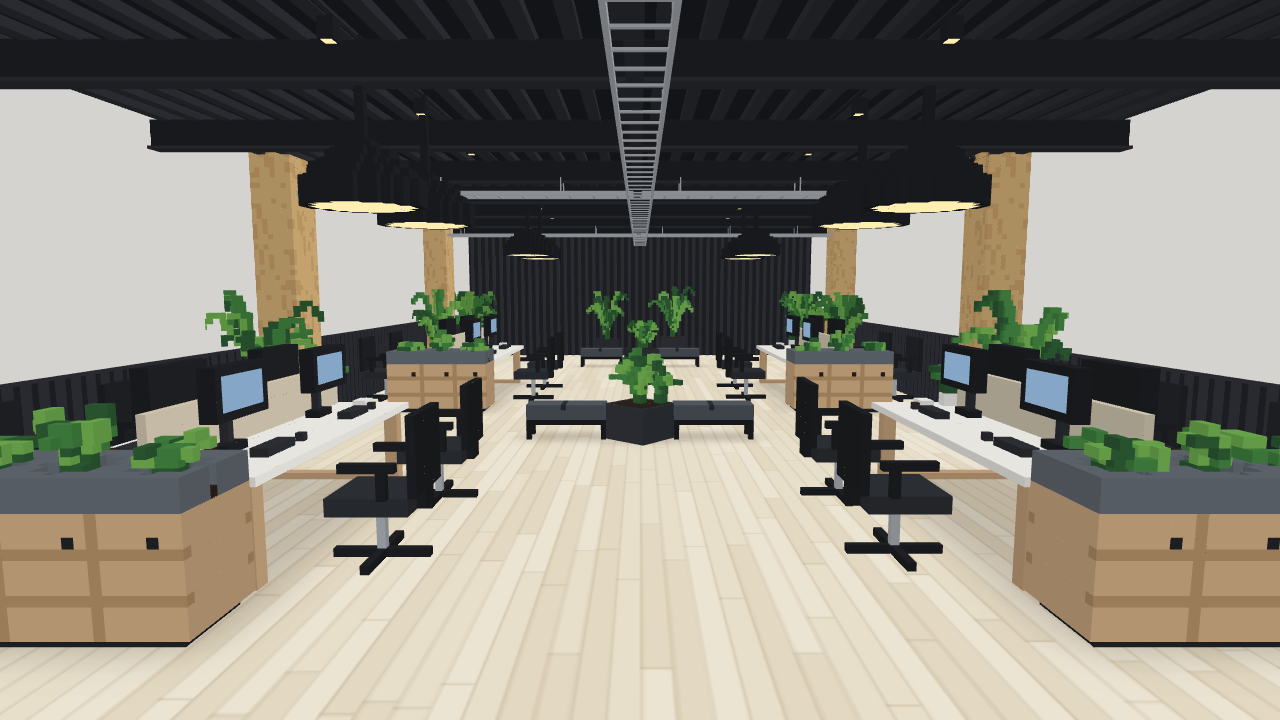
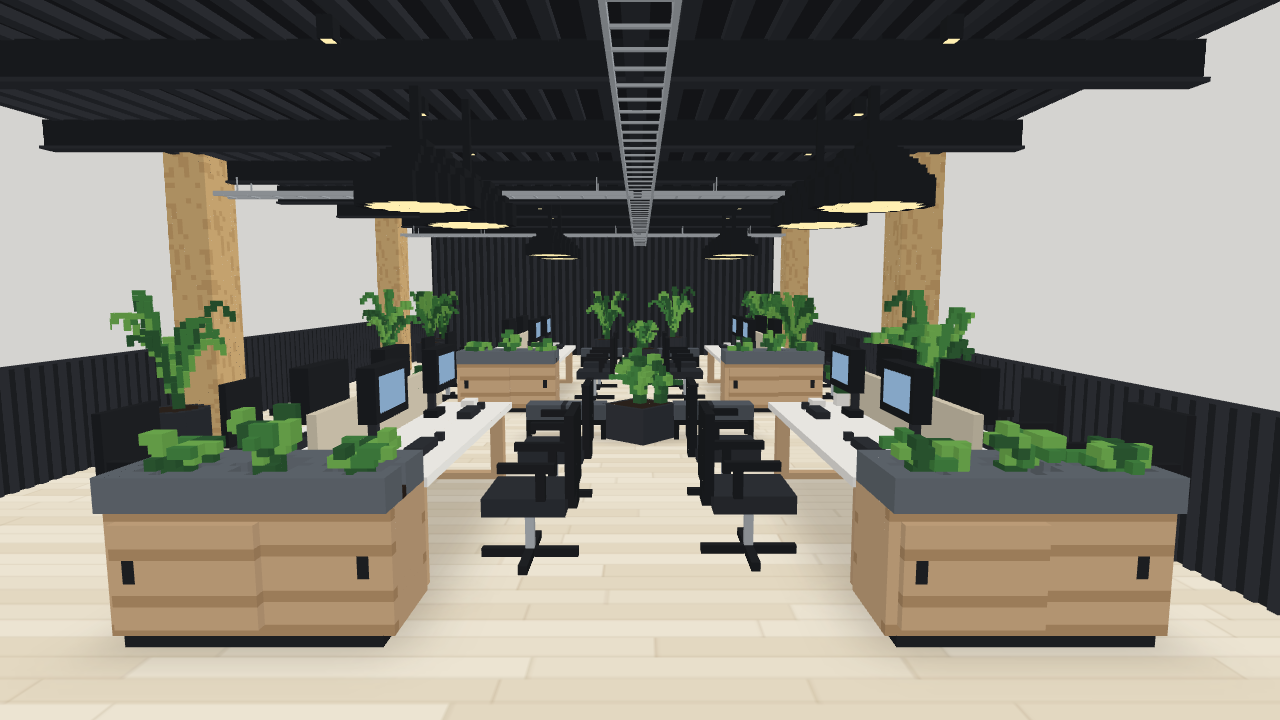
feat(office): pasillo de 2,6 m entre mesas, tablones a lo ancho y muebles con 2 puertas corredizas
- Islas de la izquierda corridas hacia el centro (las de la derecha quedan): 2,6 m libres
  entre bordes de mesa (medida del usuario). ROOM.aisleZ = eje del pasillo; maceta, bancos,
  lámparas, bandeja de cables, spots, plantas del fondo y cámara se acomodan a ese eje.
- Tablones del piso de lado a lado del salón, juntas más suaves.
- Mueble de guardar: 2 hojas corredizas (una por delante), riel y tirador chico; sin cajones.

diff --git a/office/src/layout.ts b/office/src/layout.ts
@@ -1,7 +1,9 @@
 // Plano de la oficina: puro (sin three), testeable. Todas las medidas en metros (1 unidad = 1 m).
 // Ejes: x a lo largo del salón (0 = entrada, ROOM.length = pared de fondo acanalada), z a lo ancho (centro del pasillo = 0),
 // y arriba (piso = 0). Las islas van pegadas a las paredes laterales (z < 0 y z > 0), con el mueble de plantas del lado de la
-// entrada, y el pasillo largo queda en el medio: |z| < aisleHalf.
+// entrada, y el pasillo largo queda entre las dos filas: |z - aisleZ| < aisleHalf. El salón NO es simétrico: las islas de la
+// izquierda (z < 0, vistas desde la entrada) están corridas hacia el centro para que entre las dos filas de mesas queden 2,6 m
+// (medida del usuario: "entran de pedo 3,5 personas a lo ancho"); del lado de la pared izquierda queda una franja libre.
 
 export interface Vec3 { x: number; y: number; z: number }
 
@@ -22,16 +24,27 @@ export interface Prop { kind: PropKind; x: number; z: number; w: number; d: numb
 /** Isla de 4 puestos: mesa doble (dos escritorios espalda con espalda) entre x0 y x1, centrada en zc, pegada a la pared `wall`. */
 export interface Island { id: number; wall: -1 | 1; x0: number; x1: number; zc: number; depth: number }
 
-export const ROOM = { length: 20, width: 9.6, height: 3.6, aisleHalf: 1.4 } as const;
+const DESK_DEPTH = 1.5;    // dos escritorios de 0,75 m espalda con espalda
+const RIGHT_ZC = 3.1;      // centro de las islas de la derecha (contra la pared z > 0): no se mueven
+const DESK_GAP = 2.6;      // libre entre bordes de mesa de las dos filas
+const LEFT_ZC = RIGHT_ZC - DESK_DEPTH - DESK_GAP;   // -1,0: islas de la izquierda
+/**
+ * Medidas del salón. `aisleZ` = eje del pasillo (a mitad entre las dos filas de mesas); `aisleHalf` = media franja libre para
+ * caminar entre los respaldos de las sillas del lado del pasillo (las sillas ocupan el resto de los 2,6 m).
+ */
+export const ROOM = {
+  length: 20, width: 9.6, height: 3.6,
+  aisleZ: (RIGHT_ZC - DESK_DEPTH / 2 + LEFT_ZC + DESK_DEPTH / 2) / 2,
+  aisleHalf: 0.45,
+  deskGap: DESK_GAP,
+} as const;
 /** Altura del asiento de las sillas y sillones. */
 export const SEAT_HEIGHT = 0.46;
 /** Lo único que puede estar dentro de la franja del pasillo. */
 export const AISLE_PROP_KINDS: readonly PropKind[] = ['plant', 'planter', 'bench'];
 
 const DESK_LEN = 2.8;      // largo de la isla (a lo largo del salón): 2 puestos de 1,4 m por lado
-const DESK_DEPTH = 1.5;    // dos escritorios de 0,75 m espalda con espalda
 const CHAIR_OFF = 0.55;    // del borde de la mesa al centro de la silla
-const ISLAND_ZC = 3.1;     // centro de las islas respecto del eje del pasillo
 const ISLAND_X0 = [4.5, 11.5];
 const CAB_DEPTH = 0.6;     // mueble de plantas (a lo largo de x)
 const COLUMN_X = [2.6, 9.4, 16.2];
@@ -58,7 +71,7 @@ export function officeLayout(): OfficeLayout {
   for (const wall of [-1, 1] as const) {
     for (const x0 of ISLAND_X0) {
       const id = islands.length;
-      const zc = wall * ISLAND_ZC;
+      const zc = wall > 0 ? RIGHT_ZC : LEFT_ZC;
       const isl: Island = { id, wall, x0, x1: x0 + DESK_LEN, zc, depth: DESK_DEPTH };
       islands.push(isl);
       const xc = x0 + DESK_LEN / 2;
@@ -77,7 +90,8 @@ export function officeLayout(): OfficeLayout {
         }
       }
       // lámpara colgante sobre el centro de cada isla y otra sobre el borde del pasillo
-      lamps.push({ x: xc - 0.7, y: 2.45, z: zc * 0.62 }, { x: xc + 0.7, y: 2.45, z: zc * 0.62 });
+      const lz = zc - wall * 0.5;   // sobre la mitad de la mesa que da al pasillo
+      lamps.push({ x: xc - 0.7, y: 2.45, z: lz }, { x: xc + 0.7, y: 2.45, z: lz });
     }
   }
 
@@ -92,11 +106,11 @@ export function officeLayout(): OfficeLayout {
   // islas (no hay sillas al lado) y dejan ≥ 0,8 m libres más allá de la punta de cada banco para pasar.
   const PLANTER = 0.7, BENCH_LEN = 1.0, BENCH_D = 0.42, GAP = 0.08;
   for (const xc of LOUNGE_X) {
-    props.push({ kind: 'planter', x: xc, z: 0, w: PLANTER, d: PLANTER, rot: 0 });
+    props.push({ kind: 'planter', x: xc, z: ROOM.aisleZ, w: PLANTER, d: PLANTER, rot: 0 });
     for (const side of [-1, 1]) {
-      const bz = side * (PLANTER / 2 + GAP + BENCH_LEN / 2);
+      const bz = ROOM.aisleZ + side * (PLANTER / 2 + GAP + BENCH_LEN / 2);
       props.push({ kind: 'bench', x: xc, z: bz, w: BENCH_D, d: BENCH_LEN, rot: Math.PI / 2, seats: 2 });
-      for (const dz of [-0.4, 0.4]) {
+      for (const dz of [-0.41, 0.41]) {
         extraSeats.push({ id: 16 + extraSeats.length, position: { x: xc, y: 0, z: bz + dz }, facing: -Math.PI / 2, island: -1 });
       }
     }
@@ -113,7 +127,7 @@ export function officeLayout(): OfficeLayout {
     props.push({ kind: 'plant', x, z: wall * (ROOM.width / 2 - 0.45), w: 0.6, d: 0.6, rot: 0, size });
   }
   // dos más en el centro del pasillo, al fondo, junto a la pared acanalada
-  props.push({ kind: 'plant', x: 19.4, z: -0.9, w: 0.6, d: 0.6, rot: 0, size: 0.8 }, { kind: 'plant', x: 19.4, z: 0.9, w: 0.6, d: 0.6, rot: 0, size: 0.9 });
+  props.push({ kind: 'plant', x: 19.4, z: ROOM.aisleZ - 0.9, w: 0.6, d: 0.6, rot: 0, size: 0.8 }, { kind: 'plant', x: 19.4, z: ROOM.aisleZ + 0.9, w: 0.6, d: 0.6, rot: 0, size: 0.9 });
 
   return { room: ROOM, islands, seats, extraSeats, props, lamps };
 }

diff --git a/office/src/room.ts b/office/src/room.ts
@@ -93,12 +93,12 @@ function shellParts(L: OfficeLayout): THREE.BufferGeometry[] {
     for (let u = a0 + 0.1; u < a1; u += 0.3) b(u, TY, c - 0.17, u + 0.03, TY + 0.015, c + 0.17);
     for (let u = a0 + 0.6; u < a1; u += 1.5) for (const v of [c - 0.17, c + 0.15]) b(u, TY + 0.06, v, u + 0.015, H - 0.32, v + 0.015);
   };
-  tray(true, 0.2, X - 0.2, 0);
+  tray(true, 0.2, X - 0.2, ROOM.aisleZ);   // bandeja principal sobre el pasillo
   for (const x of [2.6, 9.4, 16.2]) tray(false, -hw + 0.2, hw - 0.2, x);
   // cables negros sobre la bandeja central
-  add(0.2, TY + 0.015, -0.08, X - 0.2, TY + 0.05, 0.02, PAL.black2);
+  add(0.2, TY + 0.015, ROOM.aisleZ - 0.08, X - 0.2, TY + 0.05, ROOM.aisleZ + 0.02, PAL.black2);
   // spots sobre dos rieles a lo largo del salón
-  for (const z of [-1.9, 1.9]) {
+  for (const z of [ROOM.aisleZ - 1.9, ROOM.aisleZ + 1.9]) {
     add(0.3, H - 0.06, z - 0.02, X - 0.3, H - 0.03, z + 0.02, PAL.black);
     for (let x = 1.2; x < X; x += 1.8) {
       add(x - 0.05, H - 0.2, z - 0.05, x + 0.05, H - 0.06, z + 0.05, PAL.black);
@@ -135,7 +135,7 @@ function furnitureParts(L: OfficeLayout): THREE.BufferGeometry[] {
 }
 
 /**
- * Piso de madera clara (roble/pino muy claro, más blanco que amarillo), casi mate: tablones a lo largo del salón con juntas
+ * Piso de madera clara (roble/pino muy claro, más blanco que amarillo), casi mate: tablones de lado a lado del salón con juntas
  * finas y 3 tonos muy cercanos (se lee madera sin hacer ruido) + sombra de contacto suave bajo los muebles. Pedido del usuario:
  * reemplaza al piso gris pulido de las fotos. Tiene que quedar más claro que la madera de los muebles para que se despeguen.
  */
@@ -148,20 +148,21 @@ function floorTexture(L: OfficeLayout): THREE.Texture | null {
   const ctx = cv.getContext('2d');
   if (!ctx) return null;
   const toPx = (x: number, z: number): [number, number] => [x * PX, (z + W / 2) * PX];
-  const PLANK = 0.16 * PX;                       // ancho del tablón
+  // tablones de lado a lado del salón (a lo ancho, eje z), 0,2 m de ancho, juntas de punta corridas entre tablones
+  const PLANK = 0.2 * PX;
   const rnd = (i: number, j: number) => hash3(i, j, 7);
-  for (let row = 0; row * PLANK < cv.height; row++) {
-    let x = -rnd(row, 0) * 2 * PX;               // juntas de punta corridas entre filas
-    for (let k = 0; x < cv.width; k++) {
-      const len = (1.4 + rnd(row, k + 1) * 1.2) * PX;
-      ctx.fillStyle = FLOOR_TONES[Math.floor(rnd(row, k + 50) * FLOOR_TONES.length)]!;
-      ctx.fillRect(x, row * PLANK, len, PLANK);
-      ctx.fillStyle = 'rgba(150,125,90,0.22)';
-      ctx.fillRect(x, row * PLANK, 1, PLANK);    // junta de punta
-      x += len;
+  for (let col = 0; col * PLANK < cv.width; col++) {
+    let y = -rnd(col, 0) * 2 * PX;
+    for (let k = 0; y < cv.height; k++) {
+      const len = (1.4 + rnd(col, k + 1) * 1.2) * PX;
+      ctx.fillStyle = FLOOR_TONES[Math.floor(rnd(col, k + 50) * FLOOR_TONES.length)]!;
+      ctx.fillRect(col * PLANK, y, PLANK, len);
+      ctx.fillStyle = 'rgba(150,125,90,0.16)';
+      ctx.fillRect(col * PLANK, y, PLANK, 1);    // junta de punta
+      y += len;
     }
-    ctx.fillStyle = 'rgba(150,125,90,0.2)';
-    ctx.fillRect(0, row * PLANK, cv.width, 1);   // junta entre tablones
+    ctx.fillStyle = 'rgba(150,125,90,0.14)';
+    ctx.fillRect(col * PLANK, 0, 1, cv.height);  // junta entre tablones (suave: de lejos no vibra)
   }
   // sombra de contacto suave bajo islas, muebles y bancos
   ctx.filter = 'blur(10px)';
@@ -174,7 +175,7 @@ function floorTexture(L: OfficeLayout): THREE.Texture | null {
   ctx.filter = 'none';
   const tex = new THREE.CanvasTexture(cv);
   tex.colorSpace = THREE.SRGBColorSpace;
-  tex.anisotropy = 4;
+  tex.anisotropy = 8;
   return tex;
 }
 

diff --git a/office/src/layout.test.ts b/office/src/layout.test.ts
@@ -4,8 +4,10 @@ import { officeLayout, ROOM, AISLE_PROP_KINDS, type Prop } from './layout';
 const L = officeLayout();
 const all = [...L.seats, ...L.extraSeats];
 
-/** ¿El rectángulo del mueble (centro x,z; medidas w en x, d en z) pisa la franja del pasillo |z| < aisleHalf? */
-const inAisle = (p: Prop) => p.z - p.d / 2 < ROOM.aisleHalf && p.z + p.d / 2 > -ROOM.aisleHalf;
+/** Ancho libre entre los bordes de mesa de las dos filas de islas (lo midió el usuario: "entran de pedo 3,5 personas"). */
+const DESK_GAP = 2.6;
+/** ¿El rectángulo del mueble (centro x,z; medidas w en x, d en z) pisa la franja libre del pasillo |z - aisleZ| < aisleHalf? */
+const inAisle = (p: Prop) => p.z - p.d / 2 < ROOM.aisleZ + ROOM.aisleHalf && p.z + p.d / 2 > ROOM.aisleZ - ROOM.aisleHalf;
 
 describe('layout de la oficina', () => {
   it('has_16_seats_in_4_islands', () => {
@@ -54,15 +56,19 @@ describe('layout de la oficina', () => {
 
   it('aisle_is_clear', () => {
     // ningún puesto de isla en la franja del pasillo
-    for (const s of L.seats) expect(Math.abs(s.position.z), `asiento ${s.id}`).toBeGreaterThanOrEqual(ROOM.aisleHalf + 0.3);
+    const left = L.islands.filter(i => i.wall === -1), right = L.islands.filter(i => i.wall === 1);
+    // las islas de la derecha (z > 0) no se movieron; las de la izquierda se acercaron hasta dejar 2,6 m entre bordes de mesa
+    for (const r of right) expect(r.zc).toBeCloseTo(3.1, 5);
+    for (const l of left) for (const r of right) expect((r.zc - r.depth / 2) - (l.zc + l.depth / 2)).toBeCloseTo(DESK_GAP, 5);
+    // el pasillo libre queda centrado entre las dos filas de mesas
+    expect(ROOM.aisleZ).toBeCloseTo(((right[0]!.zc - right[0]!.depth / 2) + (left[0]!.zc + left[0]!.depth / 2)) / 2, 5);
+    for (const s of L.seats) expect(Math.abs(s.position.z - ROOM.aisleZ), `asiento ${s.id}`).toBeGreaterThanOrEqual(ROOM.aisleHalf + 0.3 - 1e-9);
     // en el pasillo solo puede haber plantas y sillones
     const intruders = L.props.filter(p => inAisle(p) && !AISLE_PROP_KINDS.includes(p.kind));
     expect(intruders).toEqual([]);
     // y sí hay plantas y sillones en el centro
     expect(L.props.some(p => inAisle(p) && p.kind === 'bench')).toBe(true);
     expect(L.props.some(p => inAisle(p) && (p.kind === 'planter' || p.kind === 'plant'))).toBe(true);
-    // los lugares extra de los sillones caen en el pasillo
-    expect(L.extraSeats.every(s => Math.abs(s.position.z) < ROOM.aisleHalf)).toBe(true);
   });
 
   it('aisle_benches_flank_the_planter_and_leave_room_to_walk', () => {
@@ -81,9 +87,10 @@ describe('layout de la oficina', () => {
         const on = L.extraSeats.filter(s => Math.abs(s.position.x - b.x) < b.w / 2 && Math.abs(s.position.z - b.z) < b.d / 2);
         expect(on).toHaveLength(2);
         // para pasar: ≥ 0,8 m libres entre la punta del banco y cualquier otro mueble en esa franja de x
-        const end = Math.abs(b.z) + b.d / 2;
-        const blockers = L.props.filter(p => p !== b && Math.abs(p.x - b.x) < (p.w + b.w) / 2 && Math.sign(p.z) === Math.sign(b.z)
-          && Math.abs(p.z) - p.d / 2 < end + 0.8 && Math.abs(p.z) + p.d / 2 > end);
+        const rel = (z: number) => z - ROOM.aisleZ;
+        const end = Math.abs(rel(b.z)) + b.d / 2;
+        const blockers = L.props.filter(p => p !== b && Math.abs(p.x - b.x) < (p.w + b.w) / 2 && Math.sign(rel(p.z)) === Math.sign(rel(b.z))
+          && Math.abs(rel(p.z)) - p.d / 2 < end + 0.8 && Math.abs(rel(p.z)) + p.d / 2 > end);
         expect(blockers).toEqual([]);
       }
     }

diff --git a/office/src/furniture.ts b/office/src/furniture.ts
@@ -109,19 +109,26 @@ export function chairGeometry(): THREE.BufferGeometry {
   });
 }
 
-/** Mueble delante de cada mesa: abajo madera con 3 puertas, arriba tapa gris con 3 huecos con plantas chicas. Frente a +z. */
+/** Mueble delante de cada mesa: abajo madera con 2 puertas corredizas, arriba tapa gris con 3 huecos con plantas chicas. Frente a +z. */
 export function cabinetGeometry(seed = 1): THREE.BufferGeometry {
   return bake(g => {
     const W = 12, D = 5;
     g.box(-W + 1, 0, -D + 1, W - 1, 1, D - 1, PAL.black);         // zócalo / ruedas
-    g.box(-W, 1, -D, W, 12, D, PAL.wood);
-    // juntas de las 3 puertas y manijas (en el frente y atrás)
-    for (const zf of [D - 1, -D]) {
-      for (const x of [-4, 4]) g.box(x, 1, zf, x + 1, 12, zf + 1, PAL.woodD);
-      for (const x of [-6, 2, 9]) g.box(x, 9, zf, x + 1, 10, zf + 1, PAL.black);
-      // vetas horizontales del roble (un solo tono, cerca del base: se lee madera sin hacer ruido)
-      for (const y of [4, 8]) for (let x = -W; x < W; x++) if (x !== -4 && x !== 4) g.dot(x, y, zf, PAL.woodD);
+    // cuerpo de roble claro: el frente (+z) queda en z = D - 1 y lo tapan 2 PUERTAS CORREDIZAS (sin cajones)
+    g.box(-W, 1, -D, W, 12, D - 1, PAL.wood);
+    // hoja izquierda: un voxel por delante de la derecha (corre por el riel de adelante)
+    g.box(-W + 1, 2, D - 1, 1, 11, D, PAL.wood);
+    // riel: línea fina abajo y arriba a todo el ancho del frente
+    for (const y of [1, 11]) g.box(-W, y, D - 2, W, y + 1, D - 1, PAL.woodD);
+    // vetas horizontales continuas (mismo tono en las dos hojas y atrás)
+    for (const y of [4, 8]) {
+      for (let x = -W + 1; x < 1; x++) g.dot(x, y, D - 1, PAL.woodD);
+      for (let x = 1; x < W; x++) g.dot(x, y, D - 2, PAL.woodD);
+      for (let x = -W; x < W; x++) g.dot(x, y, -D, PAL.woodD);
     }
+    // tirador chico (hendidura) cerca del borde exterior de cada hoja
+    g.box(-W + 2, 6, D - 1, -W + 3, 8, D, PAL.black);
+    g.box(W - 3, 6, D - 2, W - 2, 8, D - 1, PAL.black);
     // tapa gris gruesa
     g.box(-W, 12, -D, W, 15, D, PAL.grey);
     // 3 huecos con tierra y planta

diff --git a/office/src/camera.ts b/office/src/camera.ts
@@ -6,10 +6,10 @@ import { ROOM } from './layout';
 
 /** Vistas guardadas (posición y foco). `entrada` = como las fotos: desde la puerta mirando al fondo. */
 export const CAMERA_PRESETS = {
-  entrada: { pos: [0.4, 1.9, 0.0], target: [10, 0.9, 0] },
+  entrada: { pos: [0.4, 1.9, ROOM.aisleZ], target: [10, 0.9, ROOM.aisleZ] },
   isla: { pos: [2.2, 2.6, 3.9], target: [7.5, 0.8, 0.4] },
-  fondo: { pos: [19.3, 2.9, -3.6], target: [10, 0.6, 1.2] },
-  alto: { pos: [0.5, 2.85, -1.3], target: [9, 0, 0.3] },
+  fondo: { pos: [19.3, 2.9, -3.6], target: [10, 0.6, ROOM.aisleZ] },
+  alto: { pos: [0.5, 2.85, ROOM.aisleZ - 2.3], target: [9, 0, ROOM.aisleZ + 0.3] },
 } as const satisfies Record<string, { pos: readonly number[]; target: readonly number[] }>;
 export type CameraPreset = keyof typeof CAMERA_PRESETS;
 
